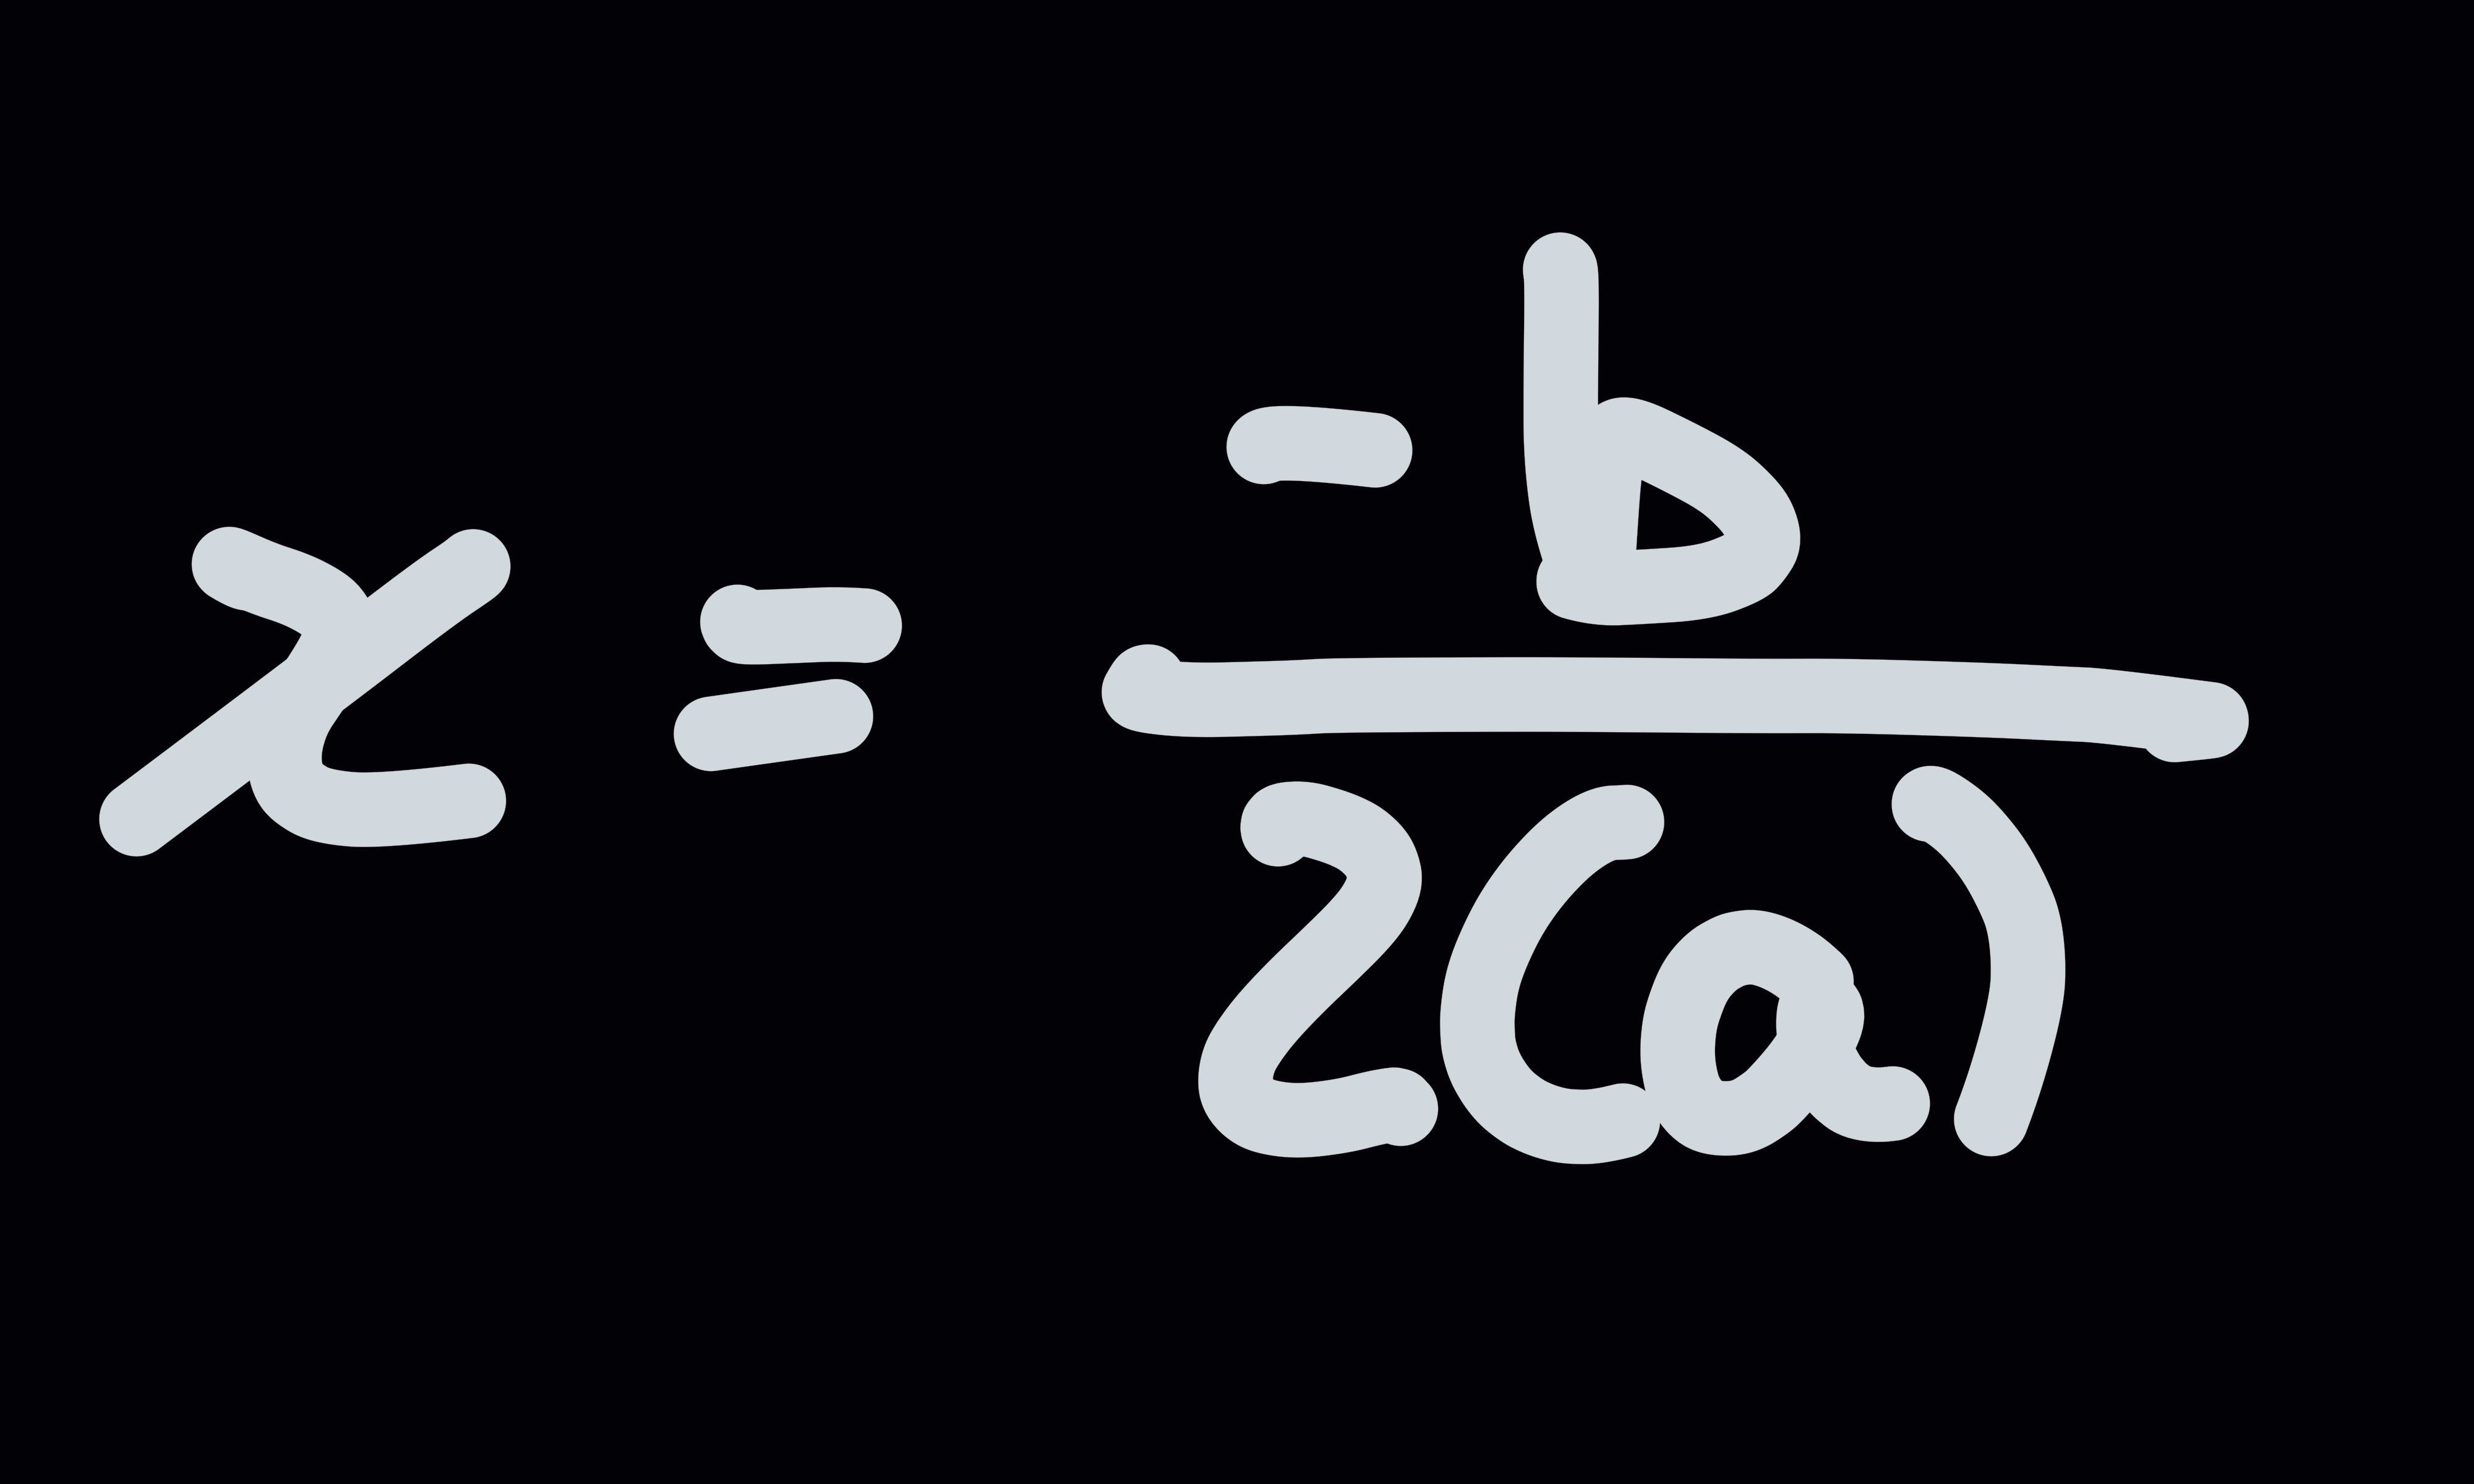
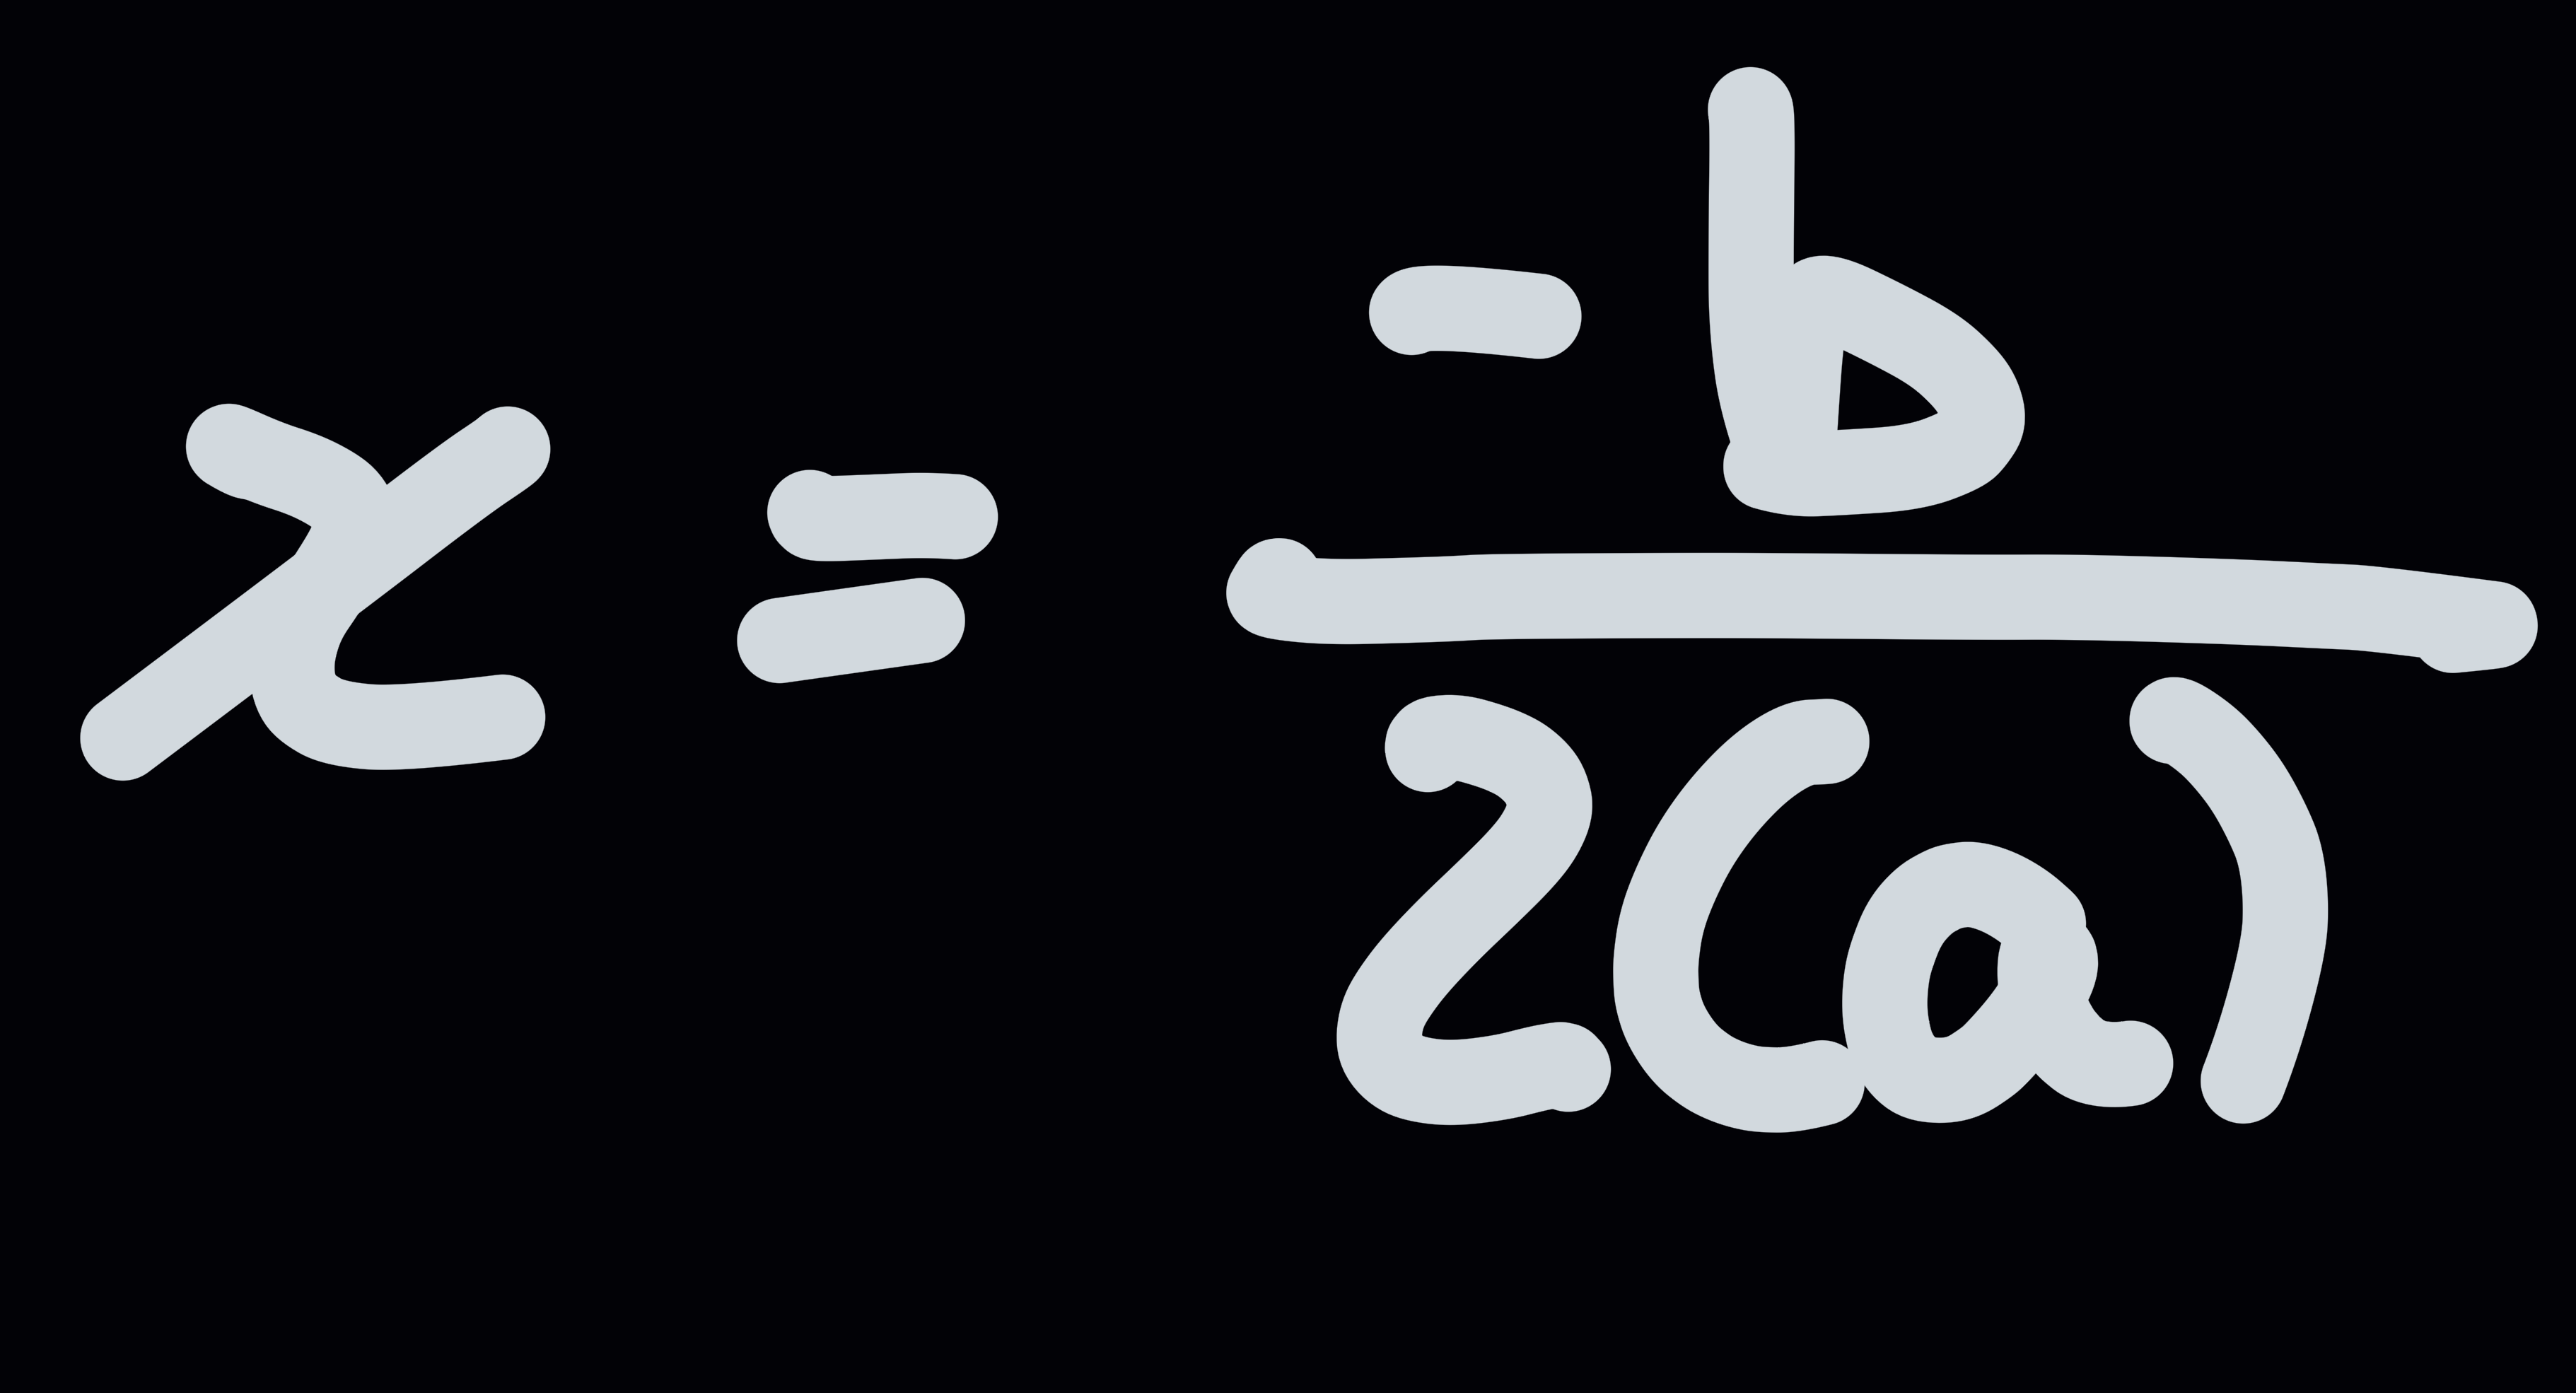
fq done

Changed region(s): [[0.4343, 0.031, 0.9926, 0.836], [0.031, 0.2787, 0.2171, 0.5883], [0.2481, 0.3406, 0.4032, 0.5264]]

diff --git a/site.js b/site.js
@@ -21,7 +21,7 @@ function element(n) {
 
 function nav() {
     if (window.innerWidth > 767) {
-        document.getElementById("nav").innerHTML = '<div class="dropdown"><button class="center , dropbtn" type="button">General Math</button><div class="dropdown-content"><a class="Program-link" href="./fractions.html">Fractions</a><a class="Program-link" href="./Linear.html">Linear functions</a></div></div><div class="dropdown"><button class="center , dropbtn" type="button">General Formulas</button><div class="dropdown-content"><a class="Program-link" href="/re.html">RE </a><a class="Program-link" href="/qf.html">Quadratic Functions </a><a class="Program-link" href="/qf2.html">Quadratic Functions | Graphing </a><a class="Program-link" href="/pa.html">Pressure Program </a></div></div><div class="dropdown"><button class="center , dropbtn" type="button">Triangle Formulas</button><div class="dropdown-content"><a class="Program-link" href="./trithingys.html">Triangle formulas</a></div></div>'
+        document.getElementById("nav").innerHTML = '<div class="dropdown"><button class="center , dropbtn" type="button">General Math</button><div class="dropdown-content"><a class="Program-link" href="./fractions.html">Fractions</a><a class="Program-link" href="./Linear.html">Linear functions</a></div></div><div class="dropdown"><button class="center , dropbtn" type="button">General Formulas</button><div class="dropdown-content"><a class="Program-link" href="/fq.html">Factoring Quadratics</a><br><a class="Program-link" href="/re.html">RE </a><a class="Program-link" href="/qf.html">Quadratic Functions </a><a class="Program-link" href="/qf2.html">Quadratic Functions | Graphing </a><a class="Program-link" href="/pa.html">Pressure Program </a></div></div><div class="dropdown"><button class="center , dropbtn" type="button">Triangle Formulas</button><div class="dropdown-content"><a class="Program-link" href="./trithingys.html">Triangle formulas</a></div></div>'
         document.getElementById("nav-text").style.fontSize = "1.2em"
     }
     else if (window.innerWidth < 767) {
@@ -36,7 +36,7 @@ function nav() {
             img = 'white-hamburger-menu-icon-24.jpg'
         }
 
-        document.getElementById("nav").innerHTML = '<div class="dropdown"><button class="dropbtn" type="button"><img class="center" src="./img/'+img+'" alt="Menu Button"></button><div class="dropdown-content"><h1>General Math</h1><a class="Program-link" href="/fractions.html">Fractions</a><a class="Program-link" href="./Linear.html">Linear functions</a><h1>General Formulas</h1><a class="Program-link" href="/re.html">RE </a><a class="Program-link" href="/qf.html">Quadratic Functions </a><a class="Program-link" href="/qf2.html">Quadratic Functions | Graphing </a><a class="Program-link" href="/pa.html">Pressure Program </a><h1>Triangle formulas</h1><a class="Program-link" href="./trithingys.html">Triangle formulas</a></div></div>'
+        document.getElementById("nav").innerHTML = '<div class="dropdown"><button class="dropbtn" type="button"><img class="center" src="./img/'+img+'" alt="Menu Button"></button><div class="dropdown-content"><h1>General Math</h1><a class="Program-link" href="/fractions.html">Fractions</a><a class="Program-link" href="./Linear.html">Linear functions</a><h1>General Formulas</h1><a class="Program-link" href="/fq.html">Factoring Quadratics</a><br><a class="Program-link" href="/re.html">RE </a><a class="Program-link" href="/qf.html">Quadratic Functions </a><a class="Program-link" href="/qf2.html">Quadratic Functions | Graphing </a><a class="Program-link" href="/pa.html">Pressure Program </a><h1>Triangle formulas</h1><a class="Program-link" href="./trithingys.html">Triangle formulas</a></div></div>'
         document.getElementById("nav-text").style.fontSize = "2em"
         document.getElementById('lightdark-floatRight').style.marginTop = '5.5mm';
     }
@@ -161,6 +161,18 @@ function phoneMode(p) {
                 element(22).style.minHeight = "600px"
                 element(23).style.width = "35%"
             }
+        } else if (p === 'fq') {
+            nav()
+            if (window.innerWidth <= 910) {
+                console.log(window.innerWidth)
+                console.log("Phone Screen")
+                elementWidth(24, 25, 99)
+            }
+            else {
+                element(24).style.width = "60%"
+                element(24).style.minHeight = "600px"
+                element(25).style.width = "35%"
+            }
         }
 };
 
@@ -232,7 +244,7 @@ function lightDarkMode() {
     if (elementValue === "1") { // light mode
 
         if (document.URL.includes("ome") || document.URL === 'https://science-calc.com/') {
-            elementProgramLink(1, 12, "#000000");
+            elementProgramLink(1, 13, "#000000");
             console.log("light mode selected");
             document.getElementById("_0").style.backgroundColor = "#FFFFFF";
             document.getElementById("_0").style.color = "#000000";
@@ -283,6 +295,13 @@ function lightDarkMode() {
                 document.getElementById('link-1-F').style.color = '#000000';
             } else if (document.URL.includes('linear')) {
                 document.getElementById('L-Type').style.backgroundColor = '#FFF000';
+            } else if (document.URL.includes('fq')) {
+                console.log('awd')
+                document.getElementById('FQ-imgSwap').innerHTML = '<img src="./img/fq (1).png" alt="simple q formula" class="FQ-img-tini">';
+                document.getElementById('FQ-imgSwap-2').innerHTML = '<img src="./img/FQ-2 (1).png" alt="simple q formula" class="FQ-img-tini">';
+                document.getElementById('FQ-imgSwap-3').innerHTML = '<img src="./img/FQ-3 (2).png" alt="simple q formula" class="FQ-img-tini">';
+                document.getElementById('FQ-imgSwap-4').innerHTML = '<img src="./img/FQ-4 (2).png" alt="simple q  formula" class="FQ-img-tini">';
+                document.getElementById('FQ-imgSwap-5').innerHTML = '<img src="./img/FQ-5 (2).png" alt="simple q formula" class="FQ-img-tini">';
             }
 
         }
@@ -293,7 +312,7 @@ function lightDarkMode() {
         document.getElementById("lightDarkSelector-text").style.color = '#cacaca'
 
         if (document.URL.includes("ome")|| document.URL === 'https://science-calc.com/') {
-            elementProgramLink(1, 12, "#cacaca");
+            elementProgramLink(1, 13, "#cacaca");
             document.getElementById("_0").style.backgroundColor = "#020206";
             document.getElementById("_0").style.color = "#cacaca";
             ansBlock.style.backgroundColor = "#e63743";
@@ -340,8 +359,15 @@ function lightDarkMode() {
                 document.getElementById('link-1-F').style.color = '#cacaca';
             }  else if (document.URL.includes('linear')) {
                 document.getElementById('L-Type').style.backgroundColor = '#e63743';
+            } else if (document.URL.includes('fq')) {
+                console.log('awdwd')
+                document.getElementById('FQ-imgSwap').innerHTML = '<img src="./img/fq (2).png" alt="simple q formula" class="FQ-img-tini">';
+                document.getElementById('FQ-imgSwap-2').innerHTML = '<img src="./img/FQ-2 (2).png" alt="simple q formula" class="FQ-img-tini">';
+                document.getElementById('FQ-imgSwap-3').innerHTML = '<img src="./img/FQ-3 (1).png" alt="simple q formula" class="FQ-img-tini">';
+                document.getElementById('FQ-imgSwap-4').innerHTML = '<img src="./img/FQ-4 (1).png" alt="simple q  formula" class="FQ-img-tini">';
+                document.getElementById('FQ-imgSwap-5').innerHTML = '<img src="./img/FQ-5 (1).png" alt="simple q formula" class="FQ-img-tini">';
             }
-        }   
+        }
     }
 }
 
@@ -358,7 +384,7 @@ function lightDarkCookie() {
         document.getElementById("lightDarkSelector-text").style.color = '#cacaca'
 
         if (document.URL.includes("ome")|| document.URL === 'https://science-calc.com/') {
-            elementProgramLink(1, 12, "#cacaca");
+            elementProgramLink(1, 13, "#cacaca");
             document.getElementById("_0").style.backgroundColor = "#020206";
             document.getElementById("_0").style.color = "#cacaca";
             ansBlock.style.backgroundColor = "#e63743";
@@ -405,6 +431,12 @@ function lightDarkCookie() {
             document.getElementById('link-1-F').style.color = '#cacaca';
         }  else if (document.URL.includes('linear')) {
             document.getElementById('L-Type').style.backgroundColor = '#e63743';
+        } else if (document.URL.includes('fq')) {
+            document.getElementById('FQ-imgSwap').innerHTML = '<img src="./img/fq (2).png" alt="simple q formula" class="FQ-img-tini">';
+            document.getElementById('FQ-imgSwap-2').innerHTML = '<img src="./img/FQ-2 (2).png" alt="simple q formula" class="FQ-img-tini">';
+            document.getElementById('FQ-imgSwap-3').innerHTML = '<img src="./img/FQ-3 (1).png" alt="simple q formula" class="FQ-img-tini">';
+            document.getElementById('FQ-imgSwap-4').innerHTML = '<img src="./img/FQ-4 (1).png" alt="simple q  formula" class="FQ-img-tini">';
+            document.getElementById('FQ-imgSwap-5').innerHTML = '<img src="./img/FQ-5 (1).png" alt="simple q formula" class="FQ-img-tini">';
         }
     }
 }
@@ -2211,30 +2243,29 @@ if (document.URL.includes("linear")) {
       
             let fracY_ = decimaltoFractionY(m);
             let fracX_ = decimaltoFractionX(m);
-      
+
             simplify(decimaltoFraction(''+fracY_+'/'+fracX_))
             document.getElementById('F-Ans').innerHTML = ''+simplify(decimaltoFraction(''+fracY_+'/'+fracX_))
-      
+
             let simpli = simplify(''+fracY_+'/'+fracX_);
-      
+
             let fracY = 0;
-            let fracX = 0; 
-      
+            let fracX = 0;
+
             if (simpli.substring(0 , 1) === '-') {
                 fracY = simpli.substring(1, 2);
                 fracX = simpli.substring(3 , 4)
             } else {
                 fracY = simpli.substring(0, 1);
-                fracX = simpli.substring(2 , 1)                
+                fracX = simpli.substring(2 , 1)
             }
-      
+
             console.log('fracY: '+fracY);
             console.log('fracX: '+fracX);
-      
+
             let p3Y = 0;
-            let p3X = 0;             
-      
-      
+            let p3X = 0;
+
             if (simpli.substring(0 , 1) === '-') {
                 p2Y = p1Y + (fracY) * 1;
                 p2X = p1X - (fracX) * 1;
@@ -2244,11 +2275,9 @@ if (document.URL.includes("linear")) {
                 p2Y = p1Y + (fracY) * 1;
                 p2X = p1X + (fracX) * 1;
                 p3Y = p2Y + (fracY) * 1;
-                p3X = p2X + (fracX) * 1;                
+                p3X = p2X + (fracX) * 1;
             }
-      
-      
-      
+
             document.getElementById('L-point1-X').innerHTML = p1X;
             document.getElementById('L-point1Y').innerHTML = p1Y;
             document.getElementById('L-point2-X').innerHTML = p2X;
@@ -2256,7 +2285,70 @@ if (document.URL.includes("linear")) {
             document.getElementById('L-point3-X').innerHTML = p3X;
             document.getElementById('L-point3Y').innerHTML = p3Y;
         }
-      
-      
+
       }
+}
+
+if (document.URL.includes('fq')) {
+    lightDarkCookie()
+    function getfactors() {
+        let A = document.getElementById('QF-A').value;
+        console.log('A: '+A);
+        let B = document.getElementById('QF-B').value;
+        console.log('B: '+B);
+        let C = document.getElementById('QF-C').value;
+        console.log('C: '+C);
+        let quad = ''+A+'x^2+'+B+'x+'+C+'=0';
+        console.log(quad)
+        var myreg = /(.*?)x\^2/;
+        var a = myreg.exec(quad);
+        a = a[1];
+        if (a==0) {
+            alert('a may not be equal to zero.  Enter another function');
+            return;
+        }
+        var myreg = /x\^2\+(.*?)x/;
+        var b = myreg.exec(quad);
+        b = b[1];
+        var myreg = /x\+(.*?)=/;
+        var c = myreg.exec(quad);
+        c = c[1];
+        var disc = (b*b-4*a*c);
+        if (disc!=0) {
+            disc = disc/Math.abs(disc);
+        }
+        switch (disc) {
+            case -1:
+                alert('The roots of this function are not real.  Please enter another function');
+                return;
+                break;
+            case 1:
+                if (Math.sqrt((b*b-4*a*c))==Math.round(Math.sqrt((b*b-4*a*c)))) {
+                    if (-1*((-1*b)+Math.sqrt(b*b-4*a*c))/(2*a)<0) { 
+                        var op1 = ' - '; 
+                    } else { 
+                        var op1 = ' + '; 
+                    }
+                    if (-1*((-1*b)-Math.sqrt(b*b-4*a*c))/(2*a)<0) { 
+                        var op2 = ' - '; 
+                    } else { 
+                        var op2 = ' + '; 
+                    }
+                    document.getElementById('FQ-ANS').innerHTML = ('( x' + op1 + Math.abs(((-1*b)+Math.sqrt(b*b-4*a*c))/(2*a)) + ' )( x' + op2 + Math.abs(((-1*b)-Math.sqrt(b*b-4*a*c))/(2*a)) + ' )');
+                } else {
+                    alert ('The roots of this function are not rational, and therefore this function does not factor');
+                }
+                break;
+            case 0:
+                if ((b/a)<0) {
+                    alert('( x' + ' + ' + (0-b/(2*a)) + ')( x' + ' + ' + (0-b/(2*a)) + ' )');
+                } else {
+                    alert('( x' + ' - ' + (b/(2*a)) + ')( x' + ' - ' + (b/(2*a)) + ' )');
+                }
+                break;
+            default:
+                alert('There is a problem with your syntax');
+                return
+        }
+    }
 }

diff --git a/fq.html b/fq.html
@@ -1,0 +1,103 @@
+<!DOCTYPE html>
+<html lang="en">
+<head>
+  <!-- Google tag (gtag.js) -->
+<script async src="https://www.googletagmanager.com/gtag/js?id=G-Y4BFXZ4QH6"></script>
+<script>
+  window.dataLayer = window.dataLayer || [];
+  function gtag(){dataLayer.push(arguments);}
+  gtag('js', new Date());
+
+  gtag('config', 'G-Y4BFXZ4QH6');
+</script>
+      <script async src="https://pagead2.googlesyndication.com/pagead/js/adsbygoogle.js?client=ca-pub-1989521317779813"
+     crossorigin="anonymous"></script>
+  <link rel="icon" href="./img/WEB-1-logo.png" type="image/x-icon">
+  <meta charset="utf-8" />
+  <meta name="viewport" content="width=device-width, initial-scale=1.0" />
+  <link
+    rel="stylesheet"
+    type="text/css"
+    href="/site.css"
+  />
+  <title>!</title>
+</head>
+<body id="_0" onload="phoneMode('fq'); lightDarkMode(); lightDarkCookie()">
+    <div class="navbar">
+      <span id="nav"></span>
+      <a href="/Home.html" class="navbar-brand, center" id="nav-text">Home</a>
+      <div id="lightdark-floatRight">
+        <input aria-label="light mode and dark mode switch" type="range" value="1" min="1" max="2" onload="phoneMode('fq'); lightDarkMode()" onchange="lightDarkMode(); phoneMode('fq')" id="lightDarkSelector">
+        <span id="lightDarkSelector-text"></span>
+        </div>
+    </div>
+  <h1>Factoring Quadratics Program
+</h1>
+  <p>Factoring Quadratics program</p>
+  <form action="" method="post"><input  type="number"  placeholder="Ax"  name="A"  id="QF-A"  class="QF-MARGIN"/><input  type="number"  placeholder="B"  name="B"  id="QF-B"/><input  type="number"  placeholder="C"  name="C"  id="QF-C"/><button onclick="getfactors()" class="btn-default" type="button" id="BTN-1-PA">Enter</button></form>
+
+  <div class="Ans-block , vertical-align" id="react-24">
+    <h2 class="ans-text">
+      The answer:
+    </h2>
+    <!-- <p>A's factors: <span id="FQ-ANS-A"></span></p>
+    <p>B's Factors: <span id="FQ-ANS-B"></span></p>
+    <p>C's Factors: <span id="FQ-ANS-C"></span></p> -->
+    <p>Factored equation: <span id="FQ-ANS"></span></p>
+    </div>
+  </div>
+
+  <div class="Legend-block , vertical-align" id="react-25">
+    <h2 class="Legend-text"> The Legend: </h2>
+    <p>Numerator = The top number</p><p>Denominator = The bottom number</p>
+  </div>
+<section id="pa-sec">
+  <h1>How does it work?</h1>
+   <p>lets say you have this formula:</p>
+   <span id="FQ-imgSwap"><img src="./img/fq (1).png" alt="simple q formula" class="FQ-img-tini"></span>
+   <div class="inline">
+    <br><br>
+    <p class="p-inline">• First, you have to <br>  factor A(in this case x^2).</p>
+    <span id="FQ-imgSwap-2"><img src="./img/FQ-2 (1).png" alt="simple q formula" class="FQ-img-tini"></span>
+    <br><br>
+    <p class="p-inline">• Then, Factor C(in this case -42).</p>
+    <span id="FQ-imgSwap-3"><img src="./img/FQ-3 (2).png" alt="simple q formula" class="FQ-img-tini"></span>
+    <br><br>
+    <p class="p-inline">• Then, cross multiply x*6 and x*-7. <br> then add up the results, if they equal B then <br> you are correct otherwise try changing the <br> factors or moving round the negative sign.</p>
+    <span id="FQ-imgSwap-4"><img src="./img/FQ-4 (2).png" alt="simple q  formula" class="FQ-img-tini"></span>
+    <br><br>
+    <p class="p-inline">• Finaly, take the numbers in line 1, <br> except the result of the last step, and <br> put them in parenthesis. Then do the same for line 2.</p>
+    <span id="FQ-imgSwap-5"><img src="./img/FQ-5 (2).png" alt="simple q formula" class="FQ-img-tini"></span>
+   </div>
+   <p>You're Done!</p>
+
+</section>
+<hr>
+<footer>
+  <p>To contact me write an email to:</p>
+  <a class="Program-link" id="link-6" href="mailto:[email redacted]">
+    [email redacted]</a
+  >
+  <p>Or follow me on instagram for more updates: </p>
+  <a class="insta , Program-link" id="link-7" href="https://www.instagram.com/r1b0pr07008/">@science_calc</a>
+  <a href="https://www.instagram.com/science_calc/"><img class="insta" id="insta-logo" src="./img/Instagram-logo-transparent-PNG.png" alt="instagram logo"></a>
+  <br />
+  
+  <p>
+    Why contact me? <br>
+    - You found an issue <br>
+    - You need me to add a formula <br>
+    - You need help with the site
+  </p>
+  <p>
+    <a href="https://jigsaw.w3.org/css-validator/check/referer">
+        <img id="W3C"
+            src="https://jigsaw.w3.org/css-validator/images/vcss-blue"
+            alt="Valid CSS!" />
+    </a>
+</p>
+<a class="Program-link" id="link-8" href="/disclamer.html">DISCLAMER</a>
+</footer>
+</body>
+<script src="/site.js"></script>
+</html>

diff --git a/site.css b/site.css
@@ -567,6 +567,27 @@ p.ans-footer {
     display: contents;
 }
 
+/** FQ program */
+
+.FQ-img-tini {
+    height: auto;
+    width: 200px;
+}
+
+.inline {
+    display: inline;
+    width: 90%;
+}
+
+.p-inline {
+    width: max-content;
+    margin-right: 0%;
+    margin-block-start: 0em;
+    margin-block-end: 0em;
+    display: inline-block;
+    vertical-align: top;
+}
+
 /* Dropdown css */
 
 /* Dropdown Button */

diff --git a/Home.html b/Home.html
@@ -78,6 +78,9 @@
       <br />
       <a class="Program-link-red" id="link-3" href="/qf2.html"
         >Quadratic Functions | Graphing </a>
+        <br>
+        <a class="Program-link-red" id="link-13" href="/fq.html"
+        >Factoring Quadratics </a>
       <br />
       <a class="Program-link-red" id="link-4" href="/pa.html">Pressure Program </a>
       <p>If you'd like more Formulas please write to me at <a href="mailto:[email redacted]">[email redacted]</a>.</p>